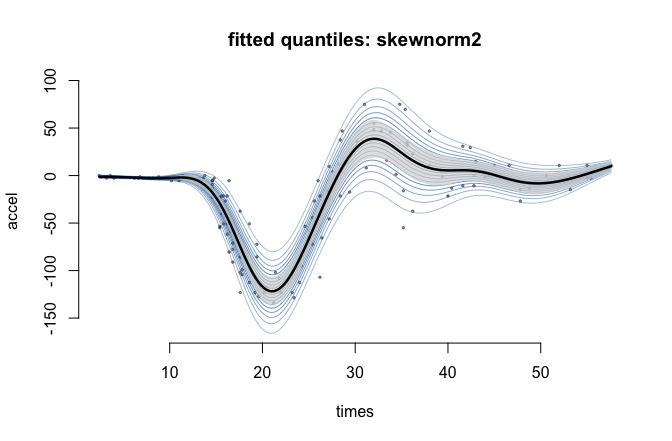
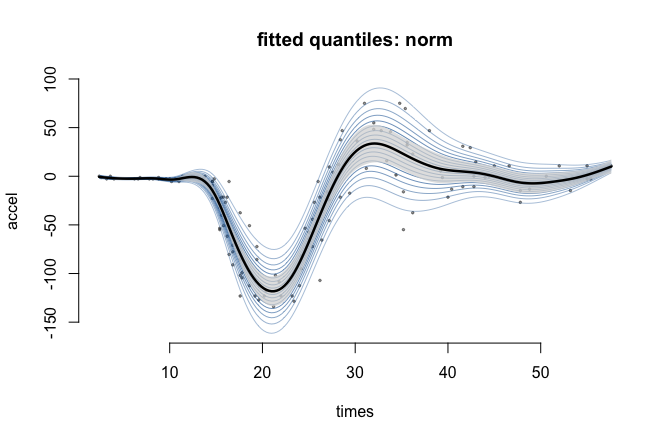
updating readme to adaptive smooth for the mean

diff --git a/README.md b/README.md
@@ -44,34 +44,32 @@ just as much.
 library(gamRTMB)
 data(mcycle, package = "MASS")
 
-fit <- gamRTMB(accel ~ list(mean = ~ s(times, k = 15),
+fit <- gamRTMB(accel ~ list(mean = ~ s(times, bs="ad", k=30, m=4),
                             sd   = ~ s(times, k = 10)),
-               data = mcycle, family = fam("skewnorm2"))
+               data = mcycle, family = fam("norm"))
 summary(fit)
 #> 
-#> Family: skewnorm2   [dskewnorm2 from RTMBdist]
-#> Links:  mean = identity,  sd = log,  alpha = identity
+#> Family: norm   [dnorm from RTMB]
+#> Links:  mean = identity,  sd = log
 #> 
 #> Formula:
-#>    mean ~ s(times, k = 15)
-#>      sd ~ s(times, k = 10)
-#>   alpha ~ 1
+#>   mean ~ s(times, bs = "ad", k = 30, m = 4)
+#>     sd ~ s(times, k = 10)
 #> 
 #> Parametric coefficients:
-#>                    Estimate Std. Error z value Pr(>|z|)    
-#> mean:(Intercept)  -25.10791    1.86401  -13.47   <2e-16 ***
-#> sd:(Intercept)      2.62085    0.06629   39.54   <2e-16 ***
-#> alpha:(Intercept)  -0.85682    1.33923   -0.64    0.522    
+#>                  Estimate Std. Error z value Pr(>|z|)    
+#> mean:(Intercept)  2.92738    9.32615   0.314    0.754    
+#> sd:(Intercept)    2.57879    0.06448  39.994   <2e-16 ***
 #> ---
 #> Signif. codes:  0 '***' 0.001 '**' 0.01 '*' 0.05 '.' 0.1 ' ' 1
 #> 
 #> Smooth terms:
-#>           term    edf  k        sp
-#>  mean:s(times) 12.159 14 4.684e-06
-#>  sd:s(times)    6.931  9   0.01052
+#>           term    edf  k                                sp
+#>  mean:s(times) 13.992 30 0.05135,1.131e-06,1.131e-06,0.309
+#>  sd:s(times)    7.228  9                          0.008796
 #> 
-#> Total EDF = 22.09   n = 133
-#> -REML = 586.710   logLik = -537.209   AIC = 1118.60
+#> Total EDF = 23.22   n = 133
+#> -REML = 582.263   logLik = -531.697   AIC = 1109.83
 ```
 
 Once every parameter varies, the useful output is covariate-dependent
@@ -116,18 +114,18 @@ range and marginal standard deviation approach their true values as the
 sample grows.
 
 Smooths that penalize one coefficient vector several times over —
-`te()`, `ti()`, `bs = "ad"` — take the sparse route too, and for the same
-reason a Markov random field does: `smooth2random()` needs one variance
-per penalized block and has none to give. What makes that legitimate is
-that the null space of $\sum_i \lambda_i S_i$ is the intersection of
-the individual null spaces and so does not move with $\lambda$, which
-means one corner constraint serves every penalty at once and leaves a
-positive definite precision — so the generalised determinant
-$|S_\lambda|_+$, and its notoriously delicate stable evaluation, never
-has to be computed. EDF agree with `mgcv::gam` to 1e-3 and fitted values
-to 3e-3 on a `te()` over interacting and over additive data, a `ti()`,
-and adaptive smooths on a jump and on `MASS::mcycle`.
+`te()`, `ti()`, `bs = "ad"` — take the sparse route too, and for the
+same reason a Markov random field does: `smooth2random()` needs one
+variance per penalized block and has none to give. What makes that
+legitimate is that the null space of $\sum_i \lambda_i S_i$ is the
+intersection of the individual null spaces and so does not move with
+$\lambda$, which means one corner constraint serves every penalty at
+once and leaves a positive definite precision — so the generalised
+determinant $|S_\lambda|_+$, and its notoriously delicate stable
+evaluation, never has to be computed. EDF agree with `mgcv::gam` to 1e-3
+and fitted values to 3e-3 on a `te()` over interacting and over additive
+data, a `ti()`, and adaptive smooths on a jump and on `MASS::mcycle`.
 
-Not supported: `fx = TRUE`, and smooths whose unpenalized null
-spaces overlap (use a shrinkage basis, `bs = "ts"`). Not yet
-implemented: smooth-term p-values and 2-D smooth plots.
+Not supported: `fx = TRUE`, and smooths whose unpenalized null spaces
+overlap (use a shrinkage basis, `bs = "ts"`). Not yet implemented:
+smooth-term p-values and 2-D smooth plots.
